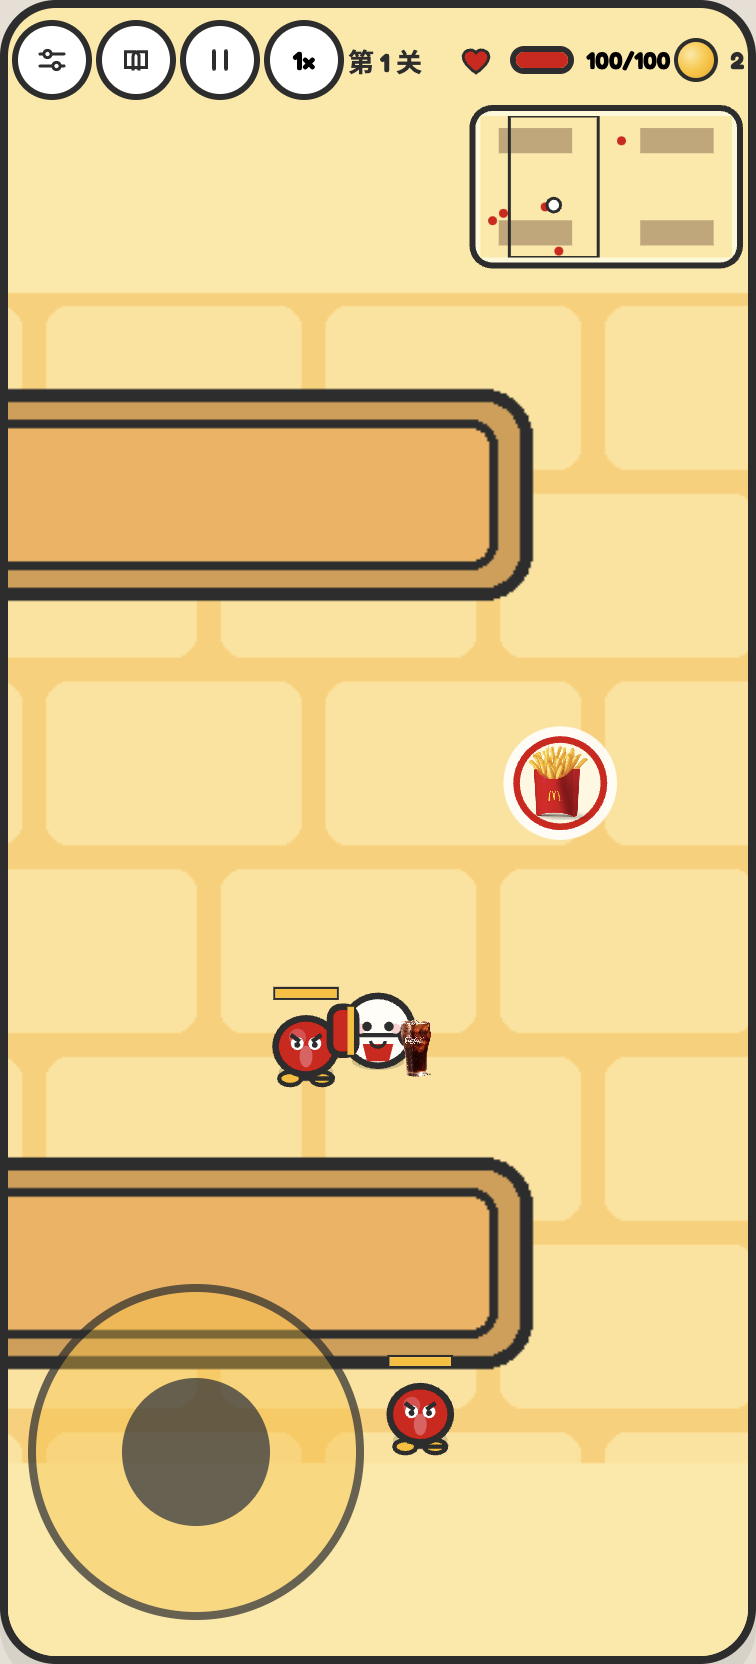
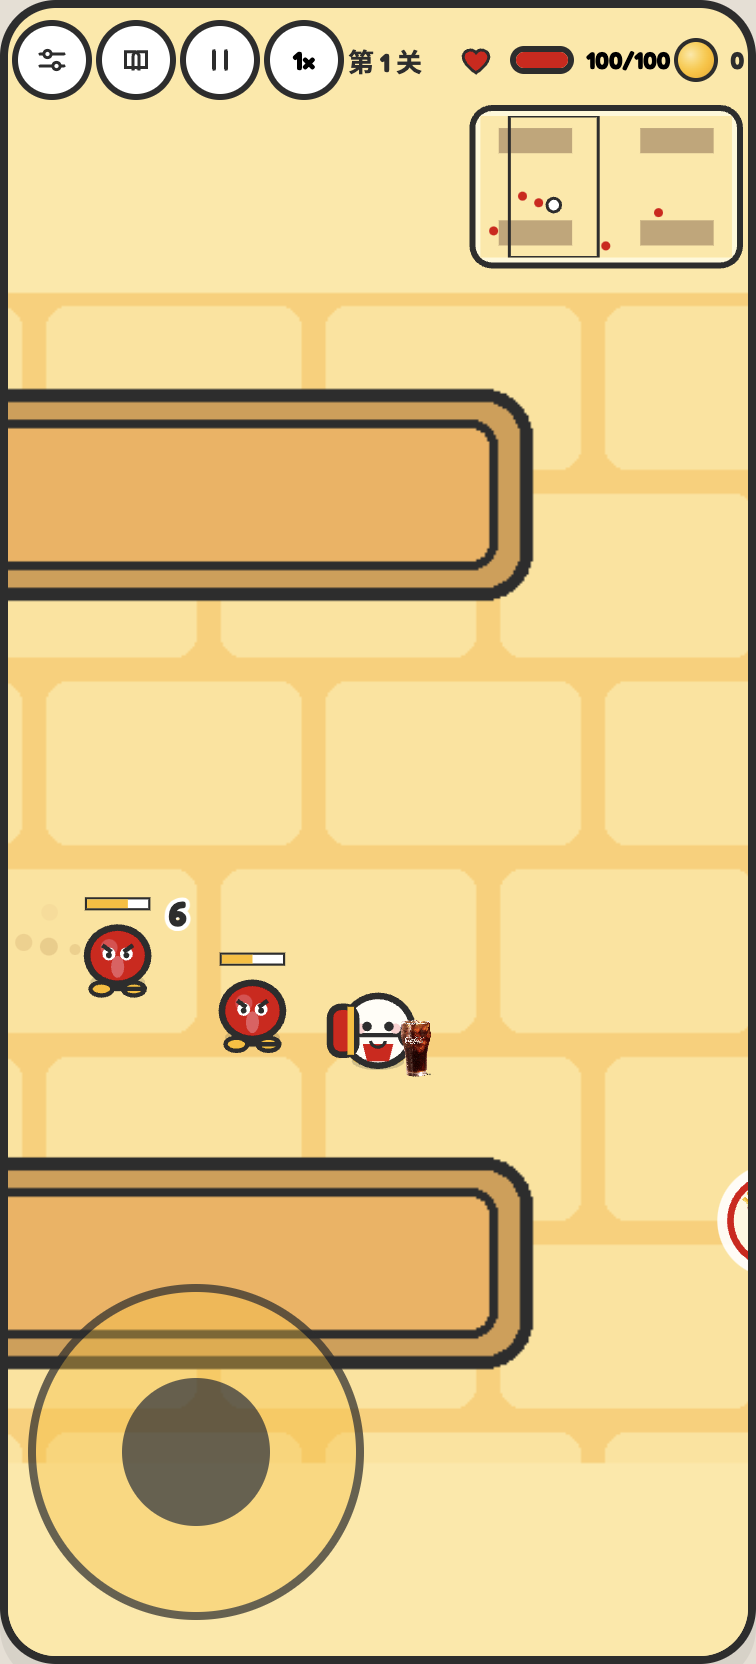
补上电脑和手机各页面截图，并把 README 改成现在的玩法。
封面、选餐、战斗、暂停、商店、手册、设置和结算都有横竖屏图，说明与当前规则一致。

diff --git a/README.md b/README.md
@@ -4,15 +4,59 @@
 
 本项目由参赛者独立开发，不是麦当劳官方产品。不提供点餐、支付或营养建议。餐品名称、价格和图片来自麦当劳 MCP 的一次菜单快照，实时供应和价格以麦当劳官方渠道为准。
 
+在线试玩：https://rianlu.github.io/mcd-rogue/
+
 ## 画面
 
-电脑上整张地图都在画面里。手机竖着玩时镜头跟着人物走，右上角有小地图，轮盘在左下角。手册分成技能和神器。
+电脑上整张地图都在画面里。手机竖着玩时镜头跟着人物走，右上角有小地图，轮盘跟着手指出现在左下角。打开后先看到封面，再选套餐。技能和神器在暂停或商店里查看，不占战斗画面。
 
-![横屏战斗](docs/screenshots/battle-land.png)
+### 开场
 
-![竖屏战斗](docs/screenshots/battle-port.png)
+![电脑开场](docs/screenshots/cover-land.png)
 
-![手册](docs/screenshots/handbook.png)
+![手机开场](docs/screenshots/cover-port.png)
+
+### 选套餐
+
+![电脑选套餐](docs/screenshots/meal-land.png)
+
+![手机选套餐](docs/screenshots/meal-port.png)
+
+### 战斗
+
+![电脑战斗](docs/screenshots/battle-land.png)
+
+![手机战斗](docs/screenshots/battle-port.png)
+
+### 暂停
+
+![电脑暂停](docs/screenshots/pause-land.png)
+
+![手机暂停](docs/screenshots/pause-port.png)
+
+### 商店
+
+![电脑商店](docs/screenshots/shop-land.png)
+
+![手机商店](docs/screenshots/shop-port.png)
+
+### 手册
+
+![电脑手册](docs/screenshots/handbook-land.png)
+
+![手机手册](docs/screenshots/handbook-port.png)
+
+### 设置
+
+![电脑设置](docs/screenshots/settings-land.png)
+
+![手机设置](docs/screenshots/settings-port.png)
+
+### 倒下了
+
+![电脑结算](docs/screenshots/dead-land.png)
+
+![手机结算](docs/screenshots/dead-port.png)
 
 ## 目标用户
 
@@ -33,11 +77,11 @@ npm run dev
 
 ## 使用示例
 
-- 电脑用 WASD 或方向键移动，也可以拖左下角轮盘。手机先横过来，再用轮盘。
-- 普攻自动发射。点底部技能格可以查看效果，并按回收价卖出。
-- 每局开始先选一套餐，免费带走里面列出的两件。商店不卖套餐。
-- 每一关清完，地上的金币、血包和护盾会先吸过来，再进商店。无尽里每一波也一样，而且一波比一波难。商店每次随机 4 件，第一次刷新免费，之后是 8、12、18 金币。装备只在商店买，都对应菜单商品。新地加大收集范围，经典麦旋风会把金币、血包和护盾吸过来。买下的雪碧、麦乐鸡会一直自己放。
-- 左上角可以打开设置、手册和暂停。暂停也可以按 P 或 Esc。
+- 打开后先点「开始闯关」，再从三套里选一套。套餐按菜单标价展示，不扣金币，带走里面的餐品。
+- 电脑用 WASD 或方向键移动，也可以按住画面拖出轮盘。手机竖屏，手指按在画面上移动，镜头跟着人，右上角小地图看全场。
+- 普攻自动朝最近的怪发射。买下的技能会掉在地上，捡到才放一次。暂停里能看到身上的技能和神器，回收前会再确认一次。
+- 每一关清完，地上的东西先收走，再进商店。无尽里每一波也一样，而且一波比一波难。商店每次随机 4 件，第一次刷新免费，之后是 8、12、18 金币。增益买下后一直生效，神器不占八个格子。新地让靠近的怪变慢，经典麦旋风会把金币、血包、护盾和技能卷过来。
+- 左上角可以打开设置、手册和暂停。暂停也可以按 P 或 Esc。第 5 关有冲锋头目，第 10 关是最终头目，之后进入无尽。
 
 打包静态页面：
 
